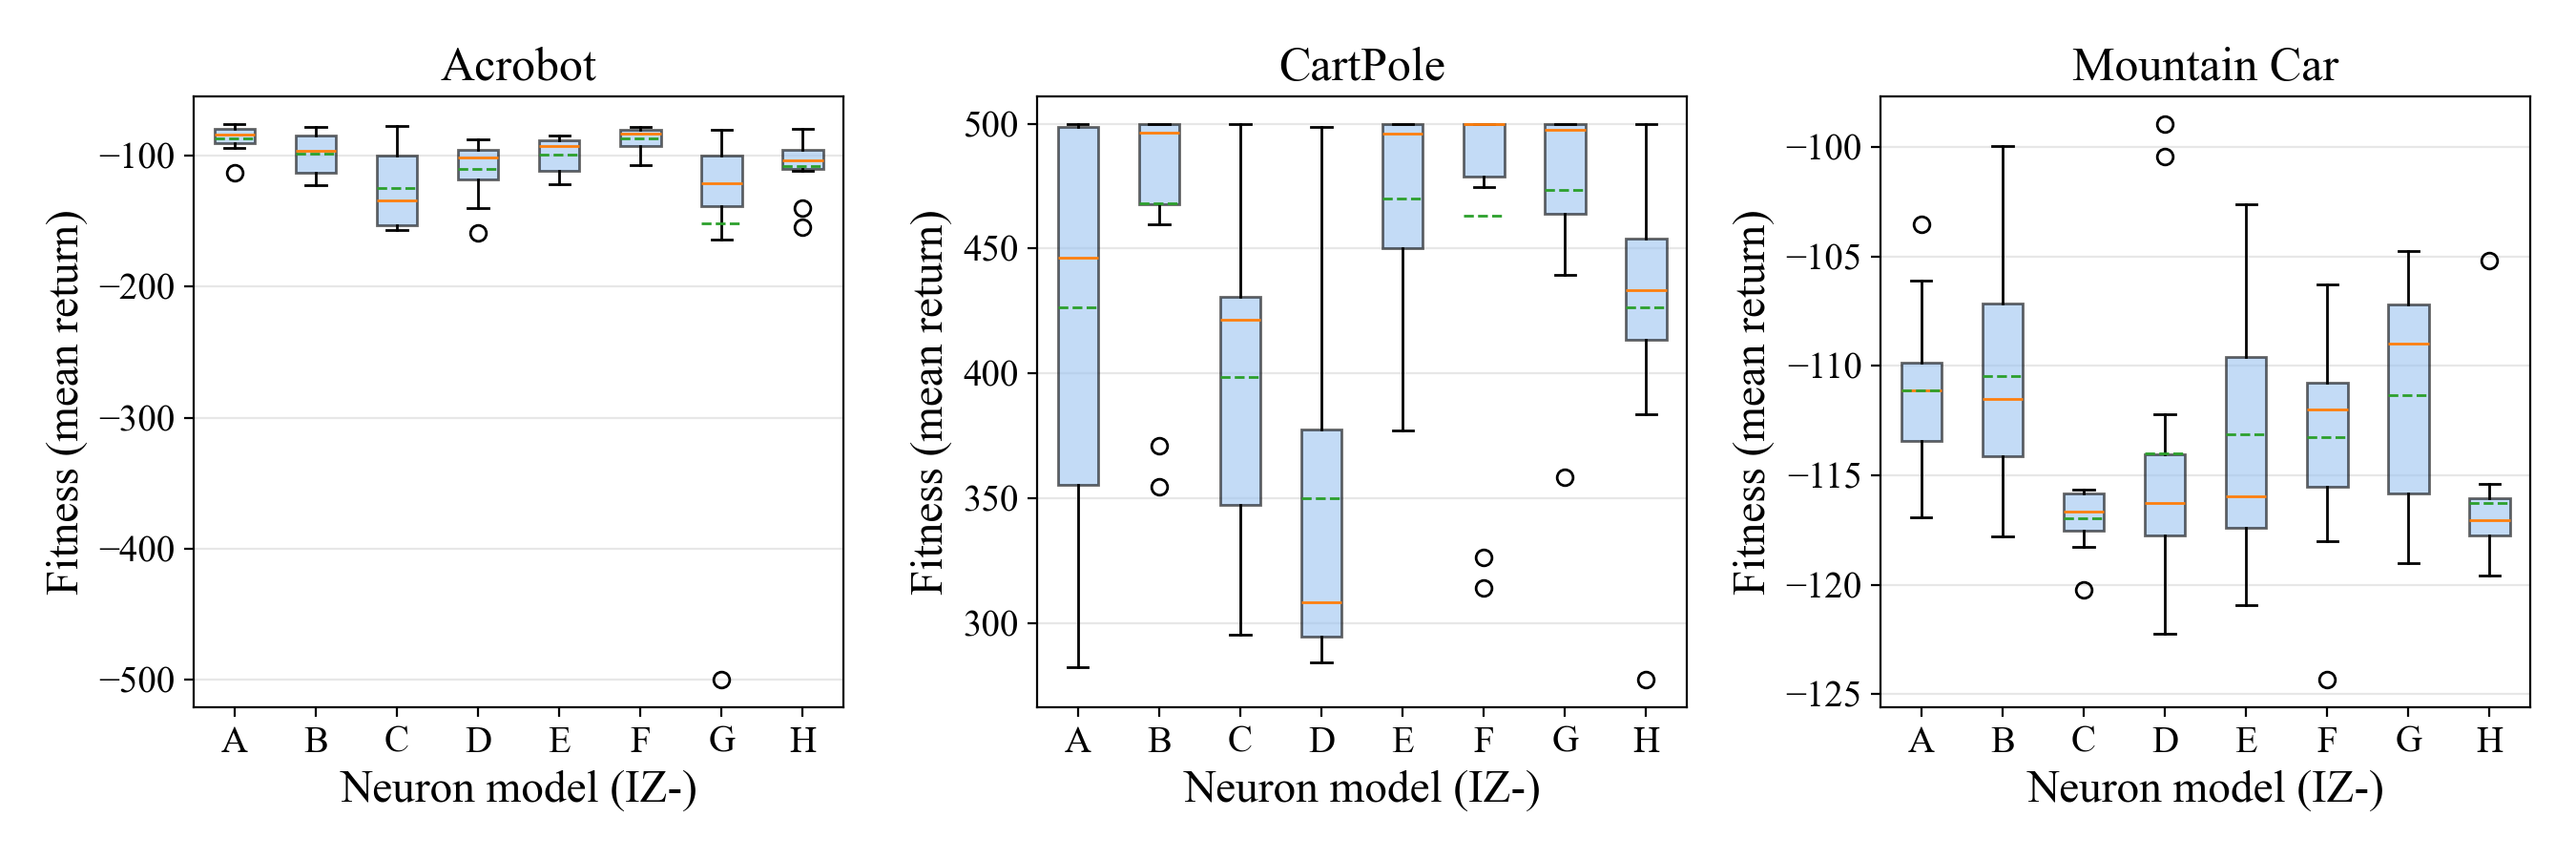
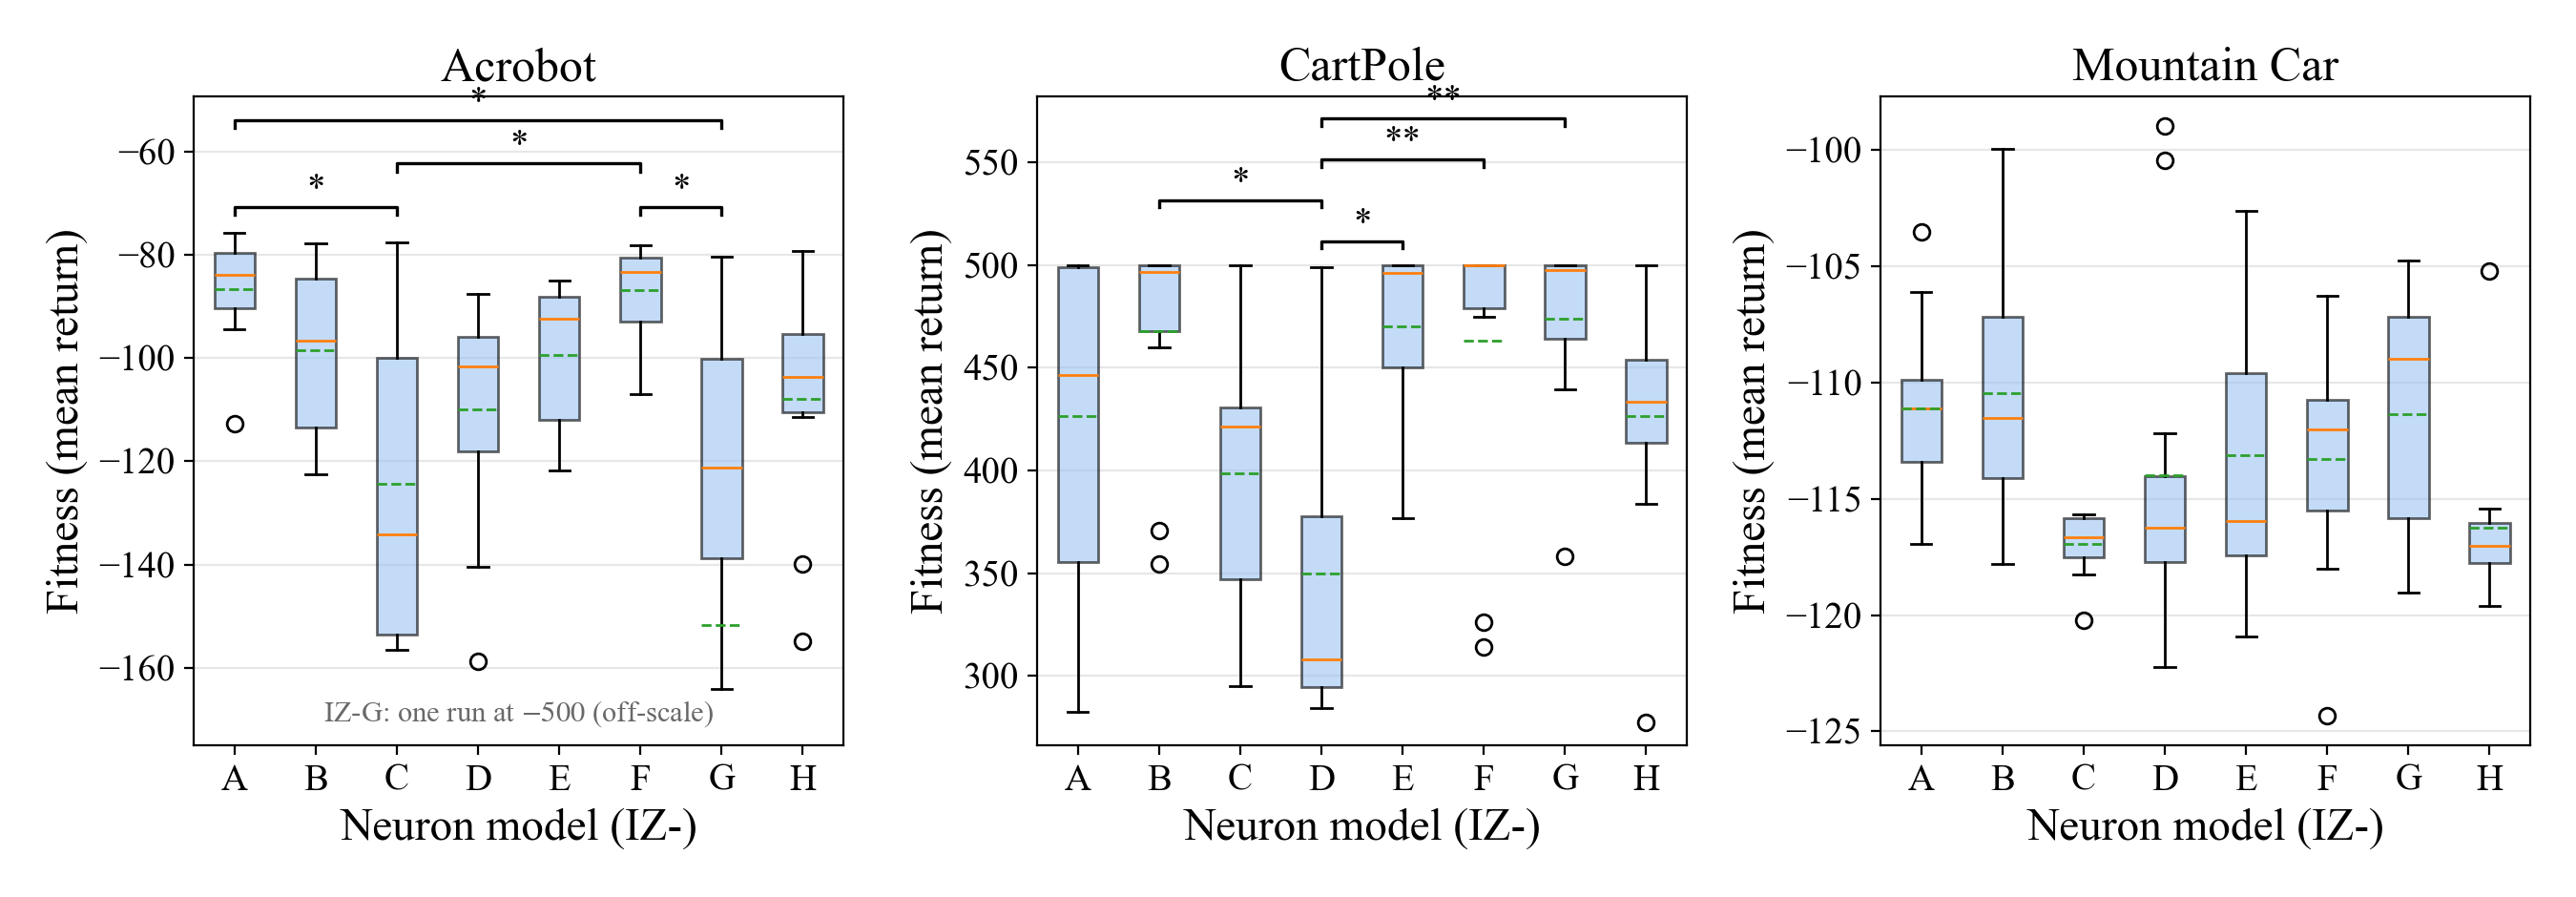
RL figure: Dunn-Holm significance brackets; clip Acrobot axis (IZ-G -500 outlier off-scale)

diff --git a/analysis/plot_rl_boxplots.py b/analysis/plot_rl_boxplots.py
@@ -4,20 +4,21 @@ Genera la figura de boxplots de RL en INGLES para el paper, como una sola
 imagen con tres paneles en fila (Acrobot, CartPole, Mountain Car), a partir de
 results/metrics/runs_rl.csv (11 corridas por modelo y problema).
 
-Una unica imagen a ancho completo evita que cada panel se reduzca por separado
-y deje las letras ilegibles (mismo tratamiento que la figura de clasificacion).
+Sobre cada panel se dibujan corchetes con asteriscos para los pares de neuronas
+con diferencia significativa segun el post-hoc de Dunn (correccion de Holm),
+leidos de results/stats/rl_{problema}_dunn.csv:
+    *  p < 0.05    **  p < 0.01    ***  p < 0.001
 
 Salida: results/figures/RL/rl_boxplots_en.png
 Uso: python plot_rl_boxplots.py
 """
 import os
+import numpy as np
 import matplotlib
 matplotlib.use("Agg")
 import matplotlib.pyplot as plt
 import pandas as pd
 
-# Fuentes grandes + serif Times, mismo estilo que plot_clf_boxplots.py para
-# combinar con IEEEtran y quedar legibles a \textwidth.
 plt.rcParams.update({
     "font.family": "serif",
     "font.serif": ["Times New Roman", "DejaVu Serif"],
@@ -31,6 +32,7 @@ plt.rcParams.update({
 
 HERE    = os.path.dirname(os.path.abspath(__file__))
 METRICS = os.path.normpath(os.path.join(HERE, "..", "results", "metrics"))
+STATS   = os.path.normpath(os.path.join(HERE, "..", "results", "stats"))
 OUTDIR  = os.path.normpath(os.path.join(HERE, "..", "results", "figures", "RL"))
 os.makedirs(OUTDIR, exist_ok=True)
 OUTPNG  = os.path.join(OUTDIR, "rl_boxplots_en.png")
@@ -39,10 +41,49 @@ MODELS   = ["IZ-A", "IZ-B", "IZ-C", "IZ-D", "IZ-E", "IZ-F", "IZ-G", "IZ-H"]
 LETTERS  = [m.split("-")[1] for m in MODELS]
 PROBLEMS = ["acrobot", "cartpole", "mountain"]
 TITLES   = {"acrobot": "Acrobot", "cartpole": "CartPole", "mountain": "Mountain Car"}
+ALPHA    = 0.05
+
+
+def stars(p):
+    if p < 0.001: return "***"
+    if p < 0.01:  return "**"
+    if p < ALPHA: return "*"
+    return None
+
+
+def significant_pairs(problem):
+    """Pares (i, j, stars) con i<j (posiciones 0..7) significativos en Dunn-Holm."""
+    path = os.path.join(STATS, f"rl_{problem}_dunn.csv")
+    if not os.path.isfile(path):
+        return []
+    d = pd.read_csv(path, index_col=0).reindex(index=MODELS, columns=MODELS)
+    out = []
+    for i in range(len(MODELS)):
+        for j in range(i + 1, len(MODELS)):
+            s = stars(float(d.iloc[i, j]))
+            if s:
+                out.append((i, j, s))
+    return out
+
+
+def assign_levels(pairs):
+    """Apila los corchetes en niveles para que no se solapen horizontalmente."""
+    pairs = sorted(pairs, key=lambda p: (p[1] - p[0], p[0]))
+    levels = []           # cada nivel: lista de (lo, hi) ocupados
+    assigned = []
+    for (i, j, s) in pairs:
+        placed = False
+        for lvl, occ in enumerate(levels):
+            if all(j < lo or i > hi for (lo, hi) in occ):
+                occ.append((i, j)); assigned.append((i, j, s, lvl)); placed = True; break
+        if not placed:
+            levels.append([(i, j)]); assigned.append((i, j, s, len(levels) - 1))
+    return assigned
+
 
 df = pd.read_csv(os.path.join(METRICS, "runs_rl.csv"))
+fig, axes = plt.subplots(1, 3, figsize=(13.5, 4.7))
 
-fig, axes = plt.subplots(1, 3, figsize=(13.5, 4.5))
 for ax, problem in zip(axes, PROBLEMS):
     sub = df[df["problem"] == problem]
     data = [sub[sub["model"] == m]["fitness"].values for m in MODELS]
@@ -55,6 +96,36 @@ for ax, problem in zip(axes, PROBLEMS):
     ax.set_xlabel("Neuron model (IZ-)")
     ax.set_ylabel("Fitness (mean return)")
     ax.grid(axis="y", alpha=0.3)
+
+    all_vals = np.concatenate(data)
+    pairs = significant_pairs(problem)
+
+    # Acrobot: acotar el eje para que el outlier -500 de IZ-G no aplaste las cajas
+    if problem == "acrobot":
+        ybot = -175.0
+        ytop_data = all_vals[all_vals > -400].max()
+        ax.annotate(r"IZ-G: one run at $-500$ (off-scale)",
+                    xy=(0.5, 0.025), xycoords="axes fraction",
+                    ha="center", va="bottom", fontsize=11, color="dimgray")
+    else:
+        ybot = ax.get_ylim()[0]
+        ytop_data = all_vals.max()
+
+    if pairs:
+        rng  = ytop_data - ybot
+        y0   = ytop_data + 0.05 * rng
+        step = 0.085 * rng
+        drop = 0.015 * rng
+        ytop = y0
+        for (i, j, s, lvl) in assign_levels(pairs):
+            y = y0 + lvl * step
+            x1, x2 = i + 1, j + 1
+            ax.plot([x1, x1, x2, x2], [y - drop, y, y, y - drop], lw=1.2, color="black")
+            ax.text((x1 + x2) / 2.0, y, s, ha="center", va="bottom", fontsize=14)
+            ytop = max(ytop, y + 0.55 * step)
+        ax.set_ylim(ybot, ytop)
+    elif problem == "acrobot":
+        ax.set_ylim(ybot, ytop_data + 0.05 * (ytop_data - ybot))
 
 fig.tight_layout()
 fig.savefig(OUTPNG, dpi=200)